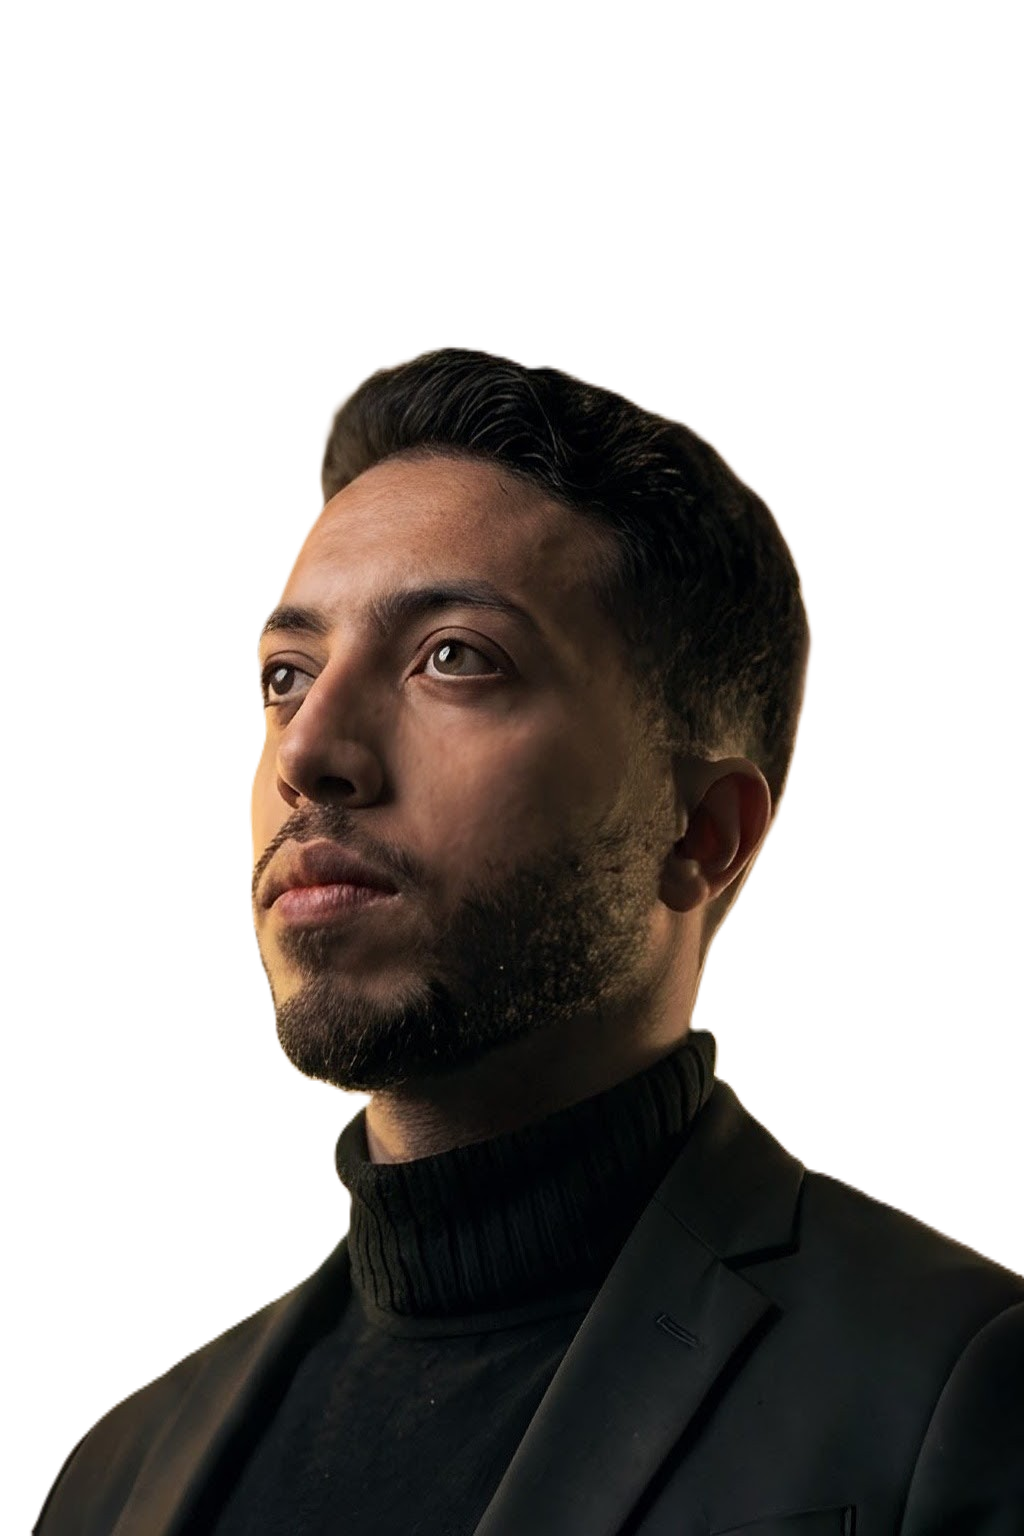
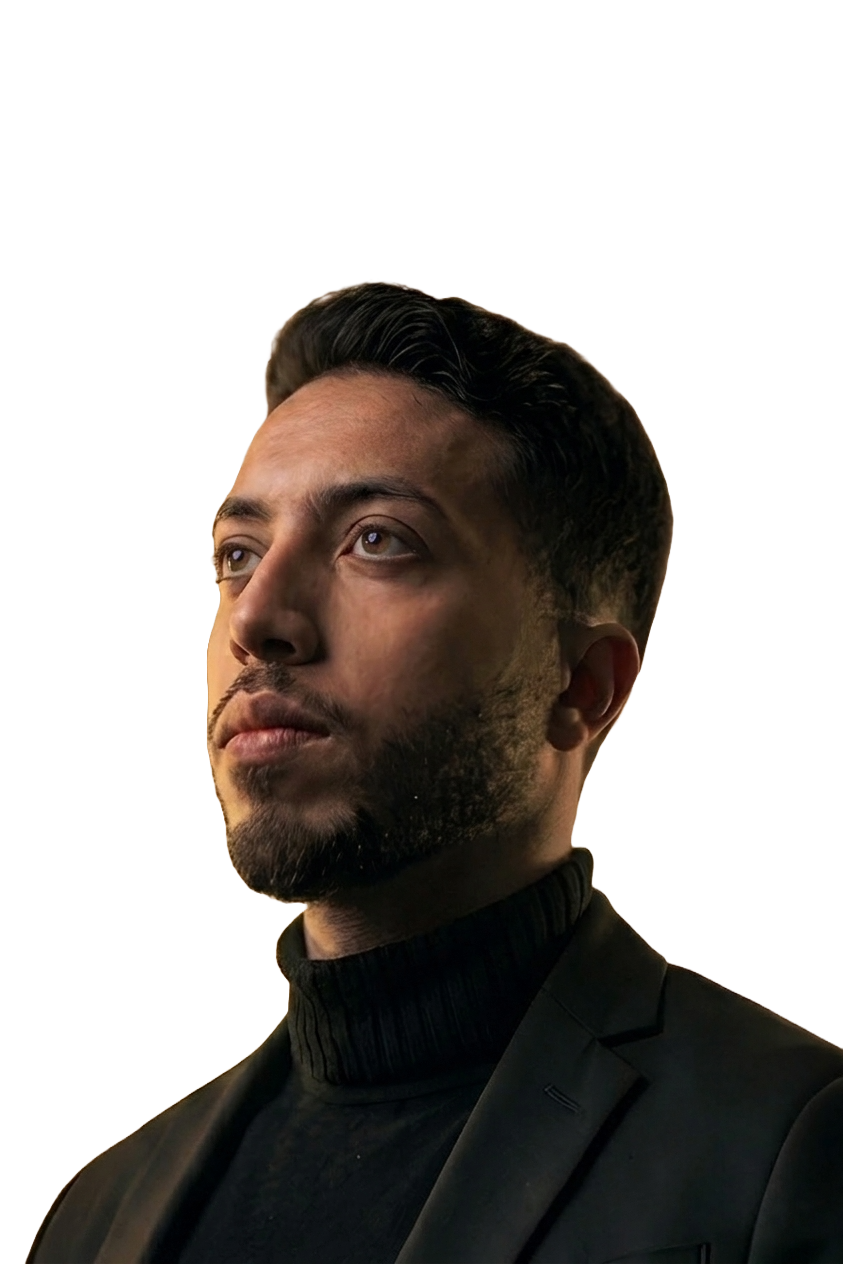
fix PortfolioCard layout and update CV content

diff --git a/app/components/molecules/PortfolioCard.tsx b/app/components/molecules/PortfolioCard.tsx
@@ -9,14 +9,14 @@ interface IPortfolioCard {
 
 export const PortfolioCard: React.FC<IPortfolioCard> = ({ project }) => {
   return (
-    <div className="top-[35%] md:top-[10%] w-[95%] h-full max-md:pb-20 flex items-center max-md:flex-col overflow-hidden sticky bg-bc transition-all duration-1000 bg-black">
-      <div className="group h-full w-full md:w-[85%] flex flex-col items-center justify-center text-center overflow-hidden relative">
+    <div className="top-[35%] md:top-[10%] w-[95%] h-full max-md:pb-20 flex items-center max-md:flex-col overflow-hidden sticky bg-bc transition-all duration-1000 bg-black md:mb-20!">
+      <div className="group h-full lg:h-[80dvh] w-full md:w-[85%] flex flex-col items-center justify-center text-center overflow-hidden relative">
         <Image
           src={project.image}
           alt={project.title}
           width={400}
           height={300}
-          className="w-full h-full object-cover transition-all duration-1500 group-hover:scale-120 group-hover:-rotate-5 group-hover:opacity-60 group-hover:blur-[3px]"
+          className="w-full h-full md:min-h-75 object-cover transition-all duration-1500 group-hover:scale-120 group-hover:-rotate-5 group-hover:opacity-60 group-hover:blur-[3px]"
         />
         <Link
           href={project.live}